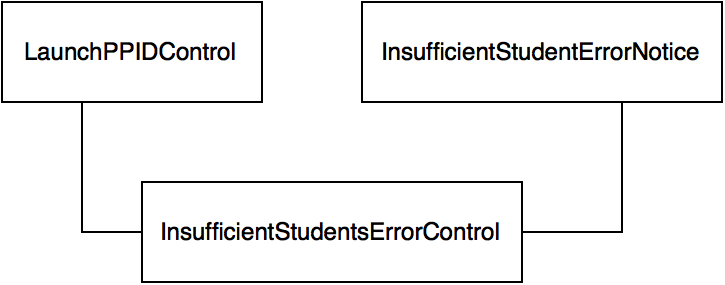
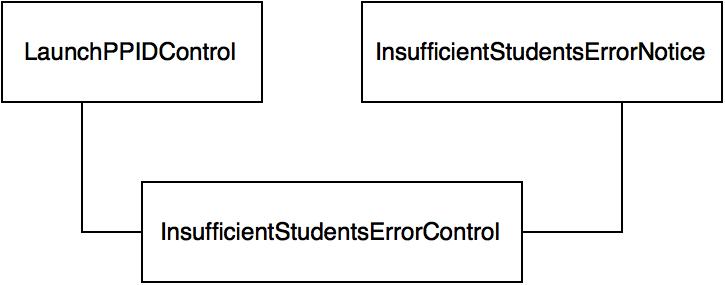
added all object tracibility things

Changed region(s): [[0.5159, 0.1404, 0.971, 0.2246]]

diff --git a/docs/main.tex b/docs/main.tex
@@ -1902,111 +1902,118 @@ In essence, the definition explains what each object does.
 	\begin{tabu} to \textwidth {l >{\bf}X X[3]}
 		\tableheader{}ID & Boundary Object & Definition\\
 		\cllabel{manage-enrollment-option}\clref{manage-enrollment-option} & Manage\-Enrollment\-Option & 
-			This object allows the Student to initiate the management of their enrollment in Projects. \\
+			This object allows the Student to initiate the management of their enrollment in Projects. Applies to \ucref{manage-enrollment}. \\
 		
 		\cllabel{project-list-notice}\clref{project-list-notice} & Project\-List\-Notice & 
-			This object is responsible for the visual output of the list of Projects to the User. It gets the required information from the Project objects and displays it.\\
+			This object is responsible for the visual output of the list of Projects to the User. It gets the required information from the Project objects and displays it. Applies to \ucref{manage-enrollment}, \ucref{manage-project}.\\
 		
 		\cllabel{enrollment-option}\clref{enrollment-option} & Enrollment\-Option & 
-			This object allows the Student to view and choose between the two enrollment options: Join or Leave.\\
+			This object allows the Student to view and choose between the two enrollment options: Join or Leave. Applies to \ucref{manage-enrollment}, \ucref{join-project}, \ucref{leave-project}. \\
 		
 		\cllabel{project-selection-option}\clref{project-selection-option} & Project\-Selection\-Option & 
-			This object reads the selected Project from the Administrator.\\
+			This object reads the selected Project from the Administrator. Applies to \ucref{manage-enrollment}, \ucref{manage-project}.\\
 		
    		\cllabel{edit-profile-option}\clref{edit-profile-option} & Edit\-Profile\-Option & 
-   			This object allows the Student to initiate the editing of their profile.\\
+   			This object allows the Student to initiate the editing of their profile. Applies to \ucref{edit-profile}. \\
 		
 		\cllabel{profile-option}\clref{profile-option} & Profile\-Option & 
-			This object allows the Student to view and choose between the two profile options: edit Personal Details or edit Desired Details.\\
+			This object allows the Student to view and choose between the two profile options: edit Personal Details or edit Desired Details. Applies to \ucref{edit-profile}, \ucref{edit-personal-values}, \ucref{edit-desired-values}. \\
 		
     		\cllabel{manage-project-option}\clref{manage-project-option} & Manage\-Project\-Option & 
-    			This object allows the Administrator to initiate the management of a Project.\\
+    			This object allows the Administrator to initiate the management of a Project. Applies to \ucref{manage-project}. \\
 		
 		\cllabel{manage-option}\clref{manage-option} & Manage\-Option & 
-			This object allows the Administrator to view and choose between two managing options: view the results of the last PPID, or edit a project. \\
+			This object allows the Administrator to view and choose between two managing options: view the results of the last PPID, or edit a project. Applies to \ucref{manage-project}. \\
 		
-		\cllabel{create-new-project-option}\clref{create-new-project-option} & Create\-New\-Proj4ect\-Option & 
-			This object allows the Administrator to initiate the process of creating a new Project.\\
+		\cllabel{create-new-project-option}\clref{create-new-project-option} & Create\-New\-Project\-Option & 
+			This object allows the Administrator to initiate the process of creating a new Project. Applies to \ucref{create-new-project}. \\
 		
 		\cllabel{project-create-notice}\clref{project-create-notice} & Project\-Create\-Notice & 
-			This object displays a notice to the Administrator stating that the Project has been successfully created.\\
+			This object displays a notice to the Administrator stating that the Project has been successfully created. Applies to \ucref{create-new-project}. \\
 		
 		\cllabel{project-details-form}\clref{project-details-form} & Project\-Details\-Form & 
-			This object is a form that reads the inputted values from the Administrator for the Project details.\\
+			This object is a form that reads the inputted values from the Administrator for the Project details. Applies to \ucref{create-new-project}, \ucref{edit-project}, \ucref{edit-project-details}. \\
 		
 		\cllabel{ppid-complete-notice}\clref{ppid-complete-notice} & PPID\-Complete\-Notice & 
-			This object displays a notice to the Administrator stating that the PPID has run successfully.\\
+			This object displays a notice to the Administrator stating that the PPID has run successfully. Applies to \ucref{launch-ppid}. \\
 		
-		\cllabel{insufficient-student-error-notice}\clref{insufficient-student-error-notice} & Insufficient\-Student\-Error\-Notice & 
-			This object displays a notice to the Administrator stating that the PPID has failed due to an insufficient amount of students enrolled in the Project.\\
-		
-		\cllabel{results-option}\clref{results-option} & Results\-Option & 
-			This object allows the Administrator to view and choose between the two result options: Summary or Detailed.\\
-		
-		\cllabel{summary-results-notice}\clref{summary-results-notice} & Summary\-Results\-Notice & 
-			This object displays a notice to the Administrator that shows the simple summary print out of the Groups.\\
-		
-		\cllabel{detailed-results-notice}\clref{detailed-results-notice} & Detailed\-Results\-Notice & 
-			This object displays a notice to the Administrator that shows the detailed print out of the Groups and the reasoning that the algorithm had when making the decisions.\\
+		\cllabel{insufficient-students-error-notice}\clref{insufficient-students-error-notice} & Insufficient\-Students\-Error\-Notice & 
+			This object displays a notice to the Administrator stating that the PPID has failed due to an insufficient amount of students enrolled in the Project. Applies to \ucref{insufficient-students-error}. \\
 	\end{tabu}
 \end{table}
 
 \begin{center}
 \begin{tabu} to \textwidth {l >{\bf}X X[3]}
 		\tableheader{}ID & Boundary Object & Definition\\
+		\cllabel{results-option}\clref{results-option} & Results\-Option & 
+			This object allows the Administrator to view and choose between the two result options: Summary or Detailed. Applies to \ucref{view-ppid-results}. \\		
+		
+		\cllabel{summary-results-notice}\clref{summary-results-notice} & Summary\-Results\-Notice & 
+			This object displays a notice to the Administrator that shows the simple summary print out of the Groups. Applies to \ucref{view-ppid-summary}. \\
+		
+		\cllabel{detailed-results-notice}\clref{detailed-results-notice} & Detailed\-Results\-Notice & 
+			This object displays a notice to the Administrator that shows the detailed print out of the Groups and the reasoning that the algorithm had when making the decisions. Applies to \ucref{view-ppid-details}. \\
+	
 		\cllabel{details-update-notice}\clref{details-update-notice} & Details\-Updated\-Notice & 
-			This object displays a notice to the Administrator stating that the saving of the new Project details to Storage was successful.\\
+			This object displays a notice to the Administrator stating that the saving of the new Project details to Storage was successful. Applies to \ucref{edit-project-details}. \\
+
 		\cllabel{project-update-notice}\clref{project-update-notice} & Project\-Update\-Notice & 
-			This object displays a notice to the Administrator stating that the editing of the Project has been completed successfully\\
+			This object displays a notice to the Administrator stating that the editing of the Project has been completed successfully. Applies to \ucref{edit-project}. \\
 		
 		\cllabel{join-complete-notice}\clref{join-complete-notice} & Join\-Complete\-Notice & 
-			This object displays a notice to the Student stating that the joining of a Project was successful.\\
+			This object displays a notice to the Student stating that the joining of a Project was successful. Applies to \ucref{join-project}. \\
 		
 		\cllabel{leave-complete-notice}\clref{leave-complete-notice} & Leave\-Complete\-Notice & 
-			This object displays a notice to the Student stating that the leaving of a Project was successful.\\
+			This object displays a notice to the Student stating that the leaving of a Project was successful. Applies to \ucref{leave-project}. \\
 		
 		\cllabel{update-complete-notice}\clref{update-complete-notice} & Update\-Complete\-Notice & 
-			This object displays a notice to the Student stating that the saving of the new Profile details (either Personal values or Desired values) to the Storage was successful.\\
+			This object displays a notice to the Student stating that the saving of the new Profile details (either Personal values or Desired values) to the Storage was successful. Applies to \ucref{edit-personal-values}, \ucref{edit-desired-values}. \\
 		
 		\cllabel{input-option}\clref{input-option} & Input\-Option & 
-			This object reads the input from the Administrator.\\ %double check this one!
+			This object reads the input from the User. Applies to \ucref{invalid-input-error}. \\
 		
 		\cllabel{invalid-input-error-notice}\clref{invalid-input-error-notice} & Invalid\-Input\-Error\-Notice & 
-			This object displays a notice to the Administrator stating that the input given was invalid.\\
+			This object displays a notice to the User stating that the input given was invalid. Applies to \ucref{invalid-input-error}. \\
 		
 		\cllabel{edit-project-name-option}\clref{edit-project-name-option} & Edit\-Project\-Name\-Option & 
-			This object reads the input from the Administrator for the new Project Name field.\\
+			This object reads the input from the Administrator for the new Project Name field. Applies to \ucref{edit-project-name}. \\
 		
 		\cllabel{project-name-update-notice}\clref{project-name-update-notice} & Project\-Name\-Update\-Notice & 
-			This object displays a notice to the Administrator stating that the updating/setting of the Project name has been successful.\\
+			This object displays a notice to the Administrator stating that the updating/setting of the Project name has been successful. Applies to \ucref{edit-project-name}. \\
 		
 		\cllabel{project-exists-error-notice}\clref{project-exists-error-notice} & Project\-Exists\-Error\-Notice & 
-			This object displays a notice to teh Administrator stating that the desired Project name has already been taken.\\
+			This object displays a notice to the Administrator stating that the desired Project name has already been taken. Applies to \ucref{project-exists-error}.\\
 		
 		\cllabel{edit-group-size-option}\clref{edit-group-size-option} & Edit\-Group\-Size\-Option & 
-			This object reads the input from the Administrator for the Maximum and Minimum group size fields.\\
-		
-		\cllabel{group-size-update-notice}\clref{group-size-update-notice} & Group\-Size\-Update\-Notice & 
-			This object displays a notice to the Administrator stating that the group size has been successfully updated.\\
-		
-		\cllabel{invalid-group-size-error-notice}\clref{invalid-group-size-error-notice} & Invalid\-Group\-Size\-Error\-Notice & 
-			This object displays a notice to the Administrator stating that the given value for the group size is invalid.\\
-		
-		\cllabel{storage-error-notice}\clref{storage-error-notice} & Storage\-Error\-Notice & 
-			This object displays a notice to the User stating that there was an error with the request to the Storage.\\
-		
-		\cllabel{storage-read-error-notice}\clref{storage-read-error-notice} & Storage\-Read\-Error\-Notice & 
-			This object displays a notice to the User stating that there was an error with regards to reading a file from Storage.\\
-		
-		\cllabel{storage-open-error-notice}\clref{storage-open-error-notice} & Storage\-Open\-Error\-Notice & 
-			This object displays a notice to the User stating that there was an error with regards to opening the Storage.\\
-		
-		\cllabel{storage-write-error-notice}\clref{storage-write-error-notice} & Storage\-Write\-Error\-Notice & 
-			This object displays a notice to the User stating that there was an error with regards to writing to the Storage.\\
+			This object reads the input from the Administrator for the Maximum and Minimum group size fields. Applies to \ucref{edit-group-size}. \\
+			
 \end{tabu}
 \end{center}
 
-\newpage{}
+\begin{center}
+\begin{tabu} to \textwidth {l >{\bf}X X[3]}
+		\tableheader{}ID & Boundary Object & Definition\\
+		
+		\cllabel{group-size-update-notice}\clref{group-size-update-notice} & Group\-Size\-Update\-Notice & 
+			This object displays a notice to the Administrator stating that the group size has been successfully updated. Applies to \ucref{edit-group-size}. \\
+
+		\cllabel{invalid-group-size-error-notice}\clref{invalid-group-size-error-notice} & Invalid\-Group\-Size\-Error\-Notice & 
+			This object displays a notice to the Administrator stating that the given value for the group size is invalid. Applies to \ucref{invalid-group-size-error}. \\
+		
+        \cllabel{storage-error-notice}\clref{storage-error-notice} & Storage\-Error\-Notice & 
+			This object displays a notice to the User stating that there was an error with the request to the Storage. Applies to \ucref{storage-error}. \\
+		
+		\cllabel{storage-read-error-notice}\clref{storage-read-error-notice} & Storage\-Read\-Error\-Notice & 
+			This object displays a notice to the User stating that there was an error with regards to reading a file from Storage. Applies to \ucref{storage-read-error}. \\
+		
+		\cllabel{storage-open-error-notice}\clref{storage-open-error-notice} & Storage\-Open\-Error\-Notice & 
+			This object displays a notice to the User stating that there was an error with regards to opening the Storage. Applies to \ucref{storage-open-error}. \\
+		
+		\cllabel{storage-write-error-notice}\clref{storage-write-error-notice} & Storage\-Write\-Error\-Notice & 
+			This object displays a notice to the User stating that there was an error with regards to writing to the Storage. Applies to \ucref{storage-write-error}. \\
+			
+\end{tabu}
+\end{center}
 
 \subsubsection{Dynamic Model}
 
@@ -2055,8 +2062,6 @@ The following diagram, \figureref{sm-student-join-project}, represents a state m
 	\figurelabel{sm-student-leave-project}
 \end{figure}
 
-\newpage{}
-
 \subsubsection*{State Machines for Profile:}
 
 The following diagram, \figureref{sm-profile-details}, represents a state machine for the Profile object. Shown here is the different states involved in managing profile details.
@@ -2080,6 +2085,8 @@ The following diagram, \figureref{sm-project-student-enrollment}, represents a s
 	\caption[\smref{project-student-enrollment} - State Machine for Project Student Enrollment]{State Machine for Project Student Enrollment (\smref{project-student-enrollment})}
 	\figurelabel{sm-project-student-enrollment}
 \end{figure}
+
+\newpage{}
 
 \noindent The following diagram, \figureref{sm-project-name}, represents a state machine for the Project object. Shown here is the different states involved in the setting of a Project's name.
 
@@ -2113,13 +2120,13 @@ The following diagram, \figureref{sm-group-enrollment}, represents a state machi
 	\figurelabel{sm-group-enrollment}
 \end{figure}
 
+\newpage{}
+
 \subsubsection*{Sequence Diagrams}
 
 Sequence diagrams are a great visual representation of the many interactions between different objects needed to satisfy one use case. Note that
 each object has a vertical dotted line - this represents the time-line of that object. Through the course of the diagram, multiple objects will be created
 and destroyed after fulfilling their purpose.
-
-\newpage{}
 
 \subsubsection*{Sequence diagram for ManageEnrollment (\ucref{manage-enrollment}):}
 
